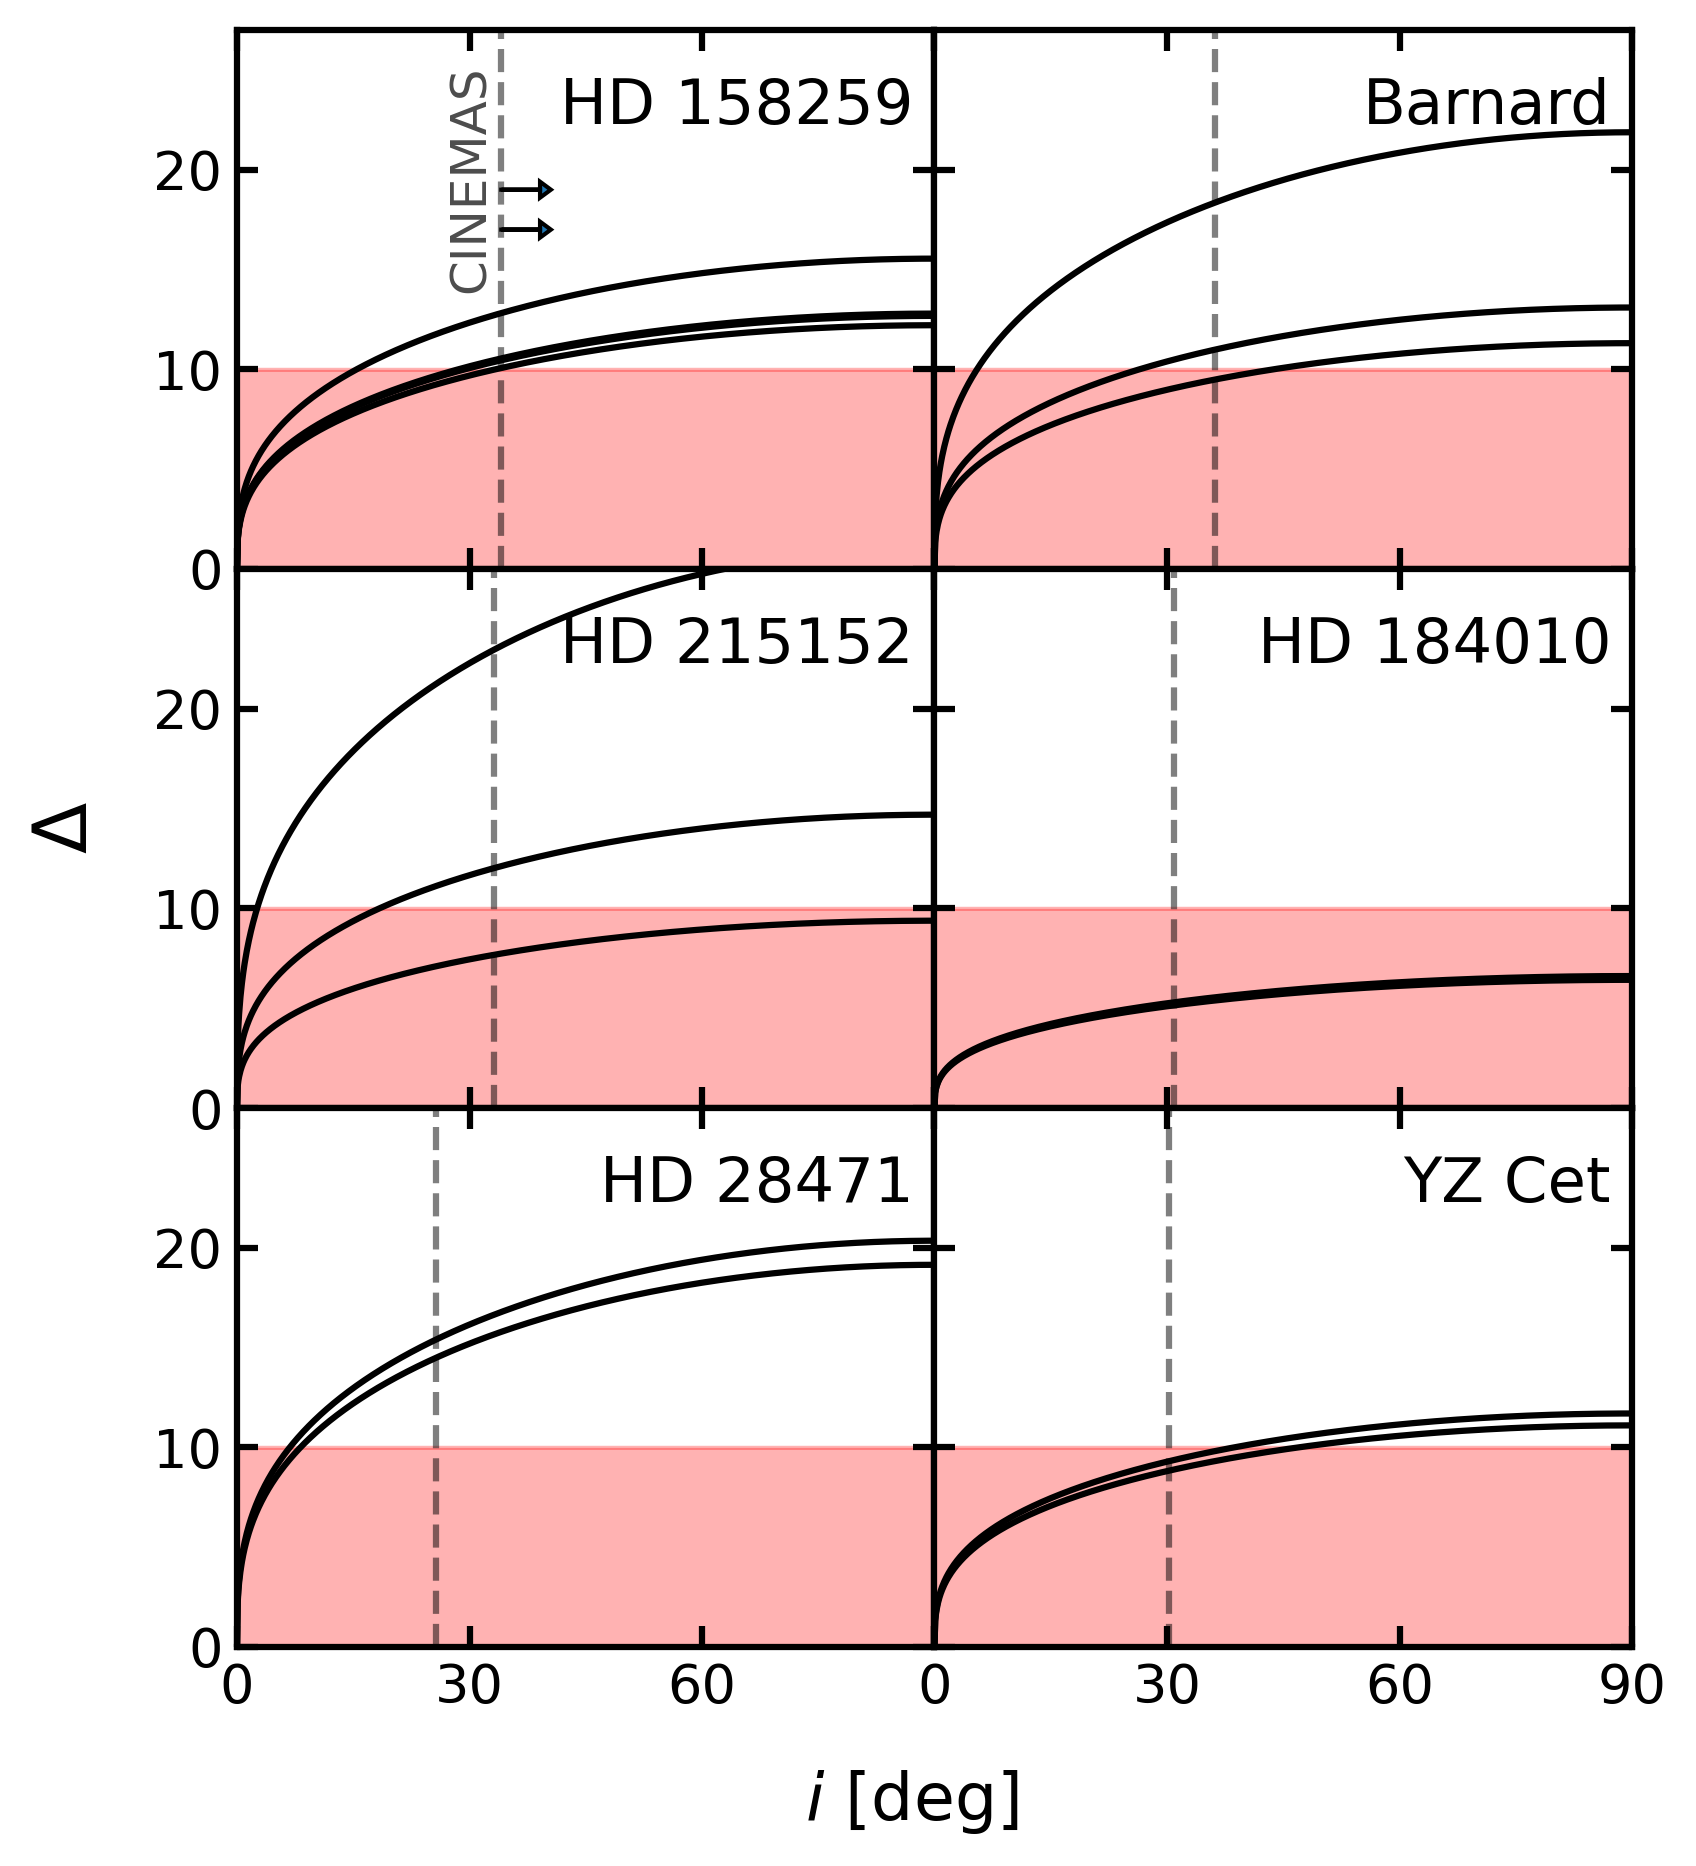
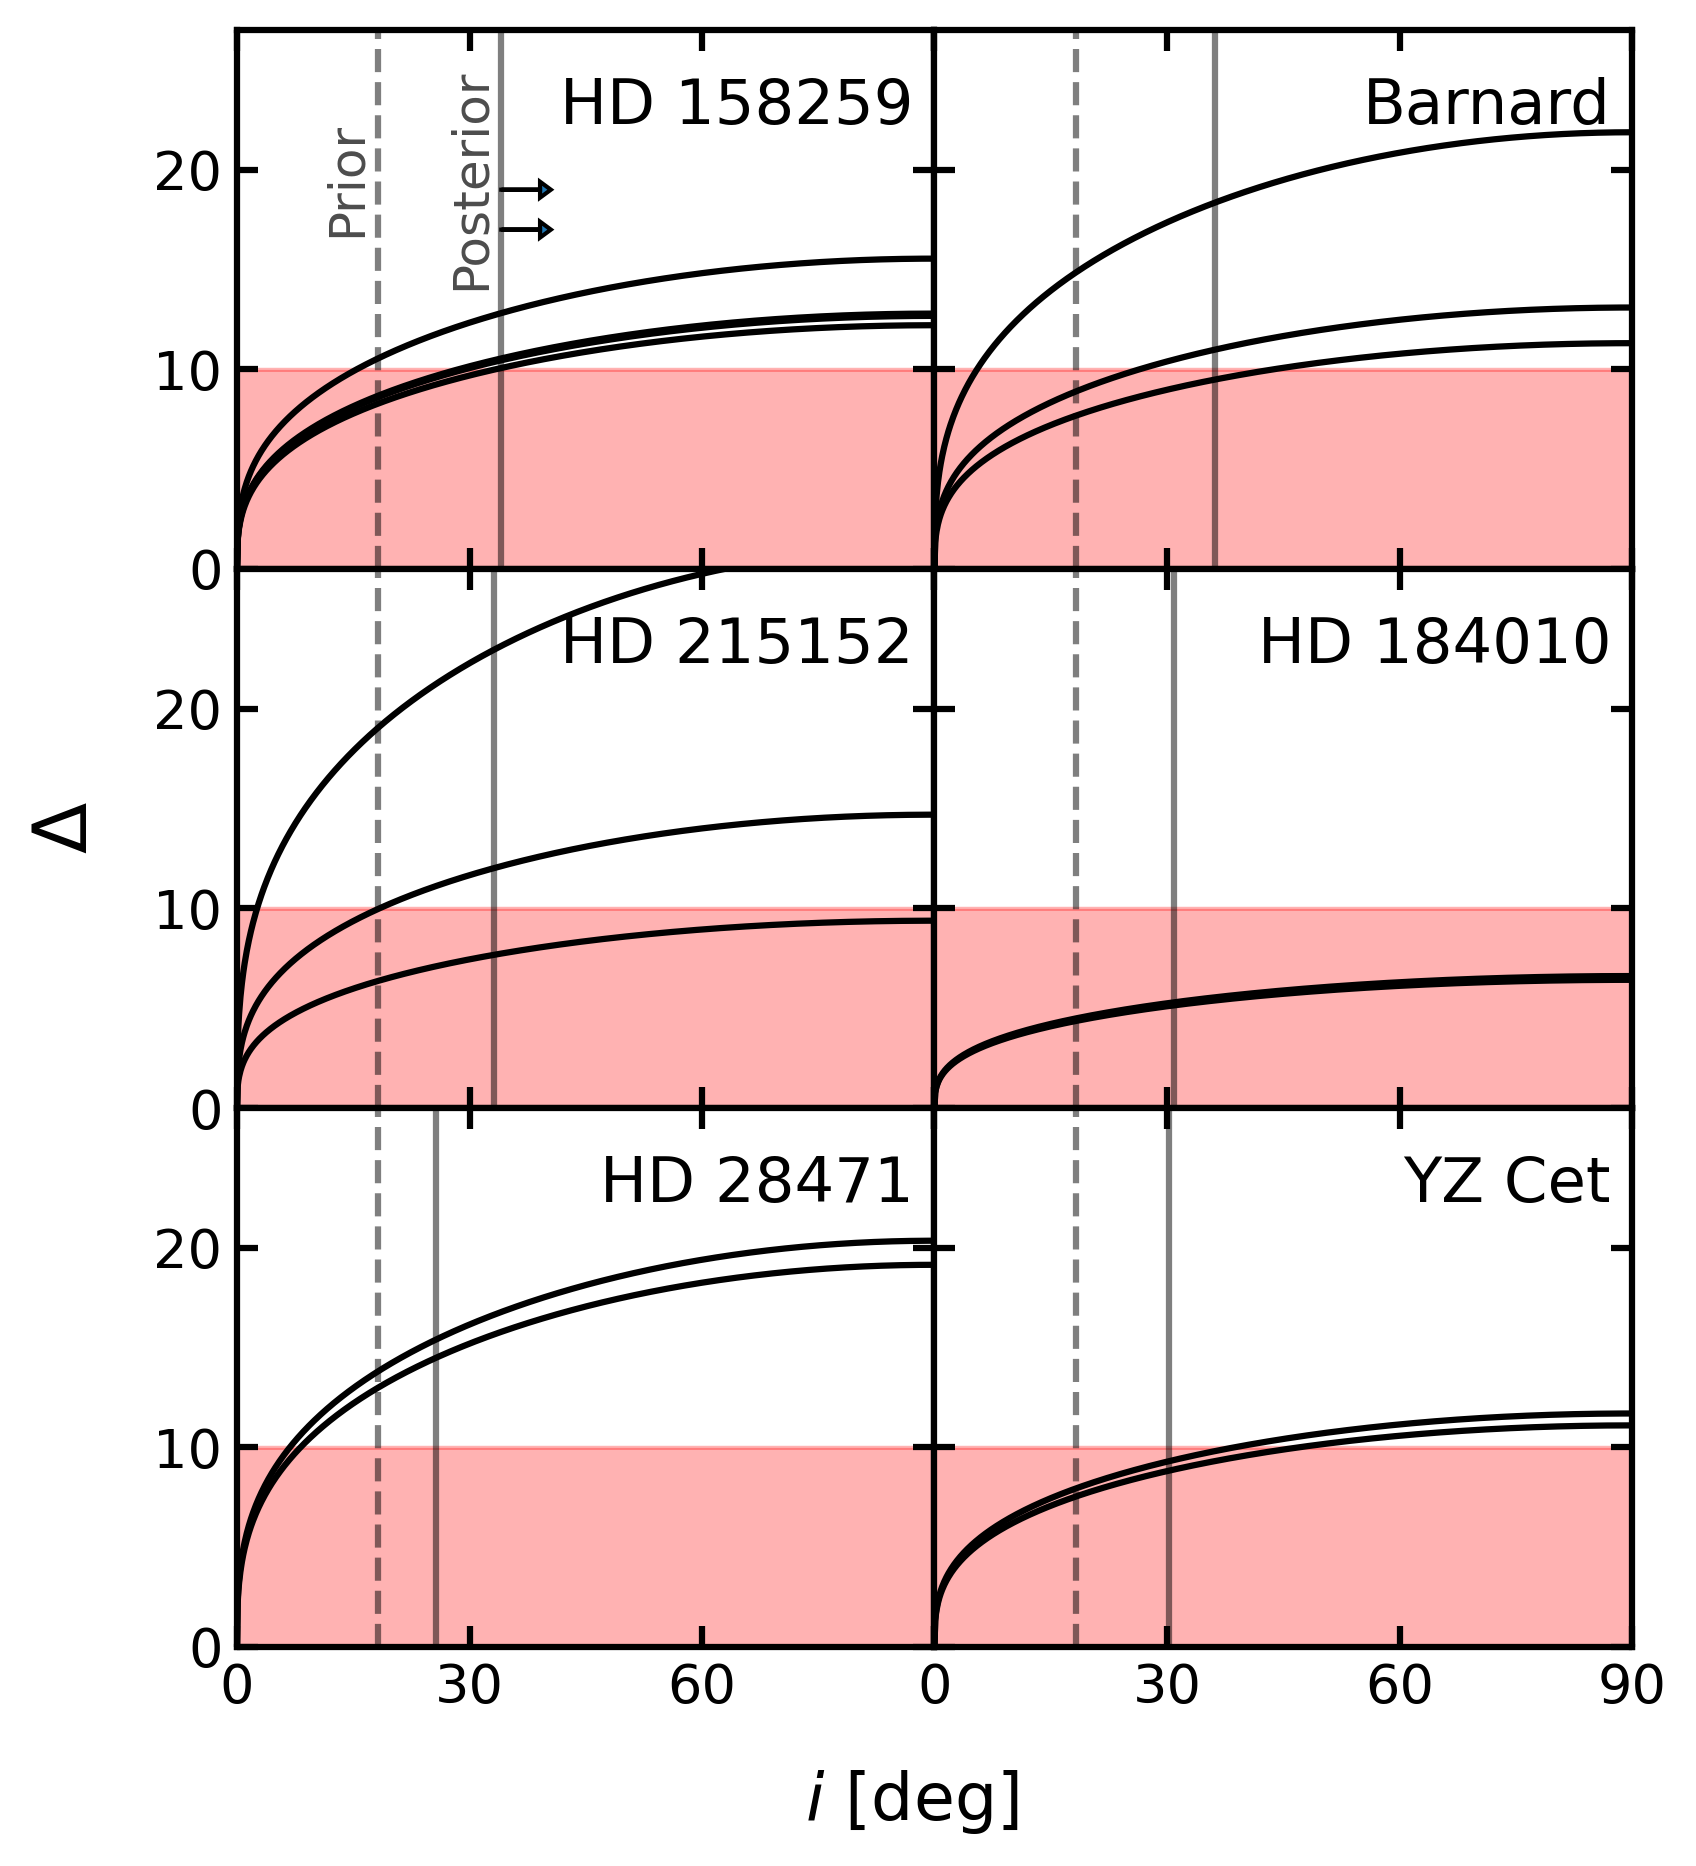
Add prior to Hill stability plot

Changed region(s): [[0.25, 0.0311, 0.3125, 0.1554], [0.1875, 0.0622, 0.2188, 0.1243]]

diff --git a/scripts/figs/plot_hillstability.py b/scripts/figs/plot_hillstability.py
@@ -75,6 +75,7 @@ def main():
     ].sort_values(["hostname", "pl_orbper"])
 
     inclinations_5pc = collect_inclinations_5pc()
+    PRIOR_5PC = np.degrees(np.arccos(0.95))
 
     # Plotting
     print("  Plotting...")
@@ -112,7 +113,8 @@ def main():
         ax.fill_between(i_deg, 0, 10, color="r", alpha=0.3)
 
         inclination_limit = inclinations_5pc[system]
-        ax.vlines(inclination_limit, 0, 27, color="k", ls="--", lw=1.5, alpha=0.5)
+        ax.vlines(inclination_limit, 0, 27, color="k", lw=1.5, alpha=0.5)
+        ax.vlines(PRIOR_5PC, 0, 27, color="k", ls="--", lw=1.5, alpha=0.5)
 
         title = system if system != "Barnard's star" else "Barnard"
         ax.set_title(title, fontsize=15, loc="right", x=0.97, y=0.78)
@@ -132,7 +134,10 @@ def main():
     # Label CINEMAS limits
     ax = axs[0, 0]
     ax.annotate(
-        "CINEMAS", xy=(27, 19.5), va="center", fontsize=12, rotation=90, alpha=0.7
+        "Posterior", xy=(27, 19.5), va="center", fontsize=12, rotation=90, alpha=0.7
+    )
+    ax.annotate(
+        "Prior", xy=(11, 19.5), va="center", fontsize=12, rotation=90, alpha=0.7
     )
     for y in [17, 19]:
         # Short rightwards arrow, from x=lower limit for HD 158259
